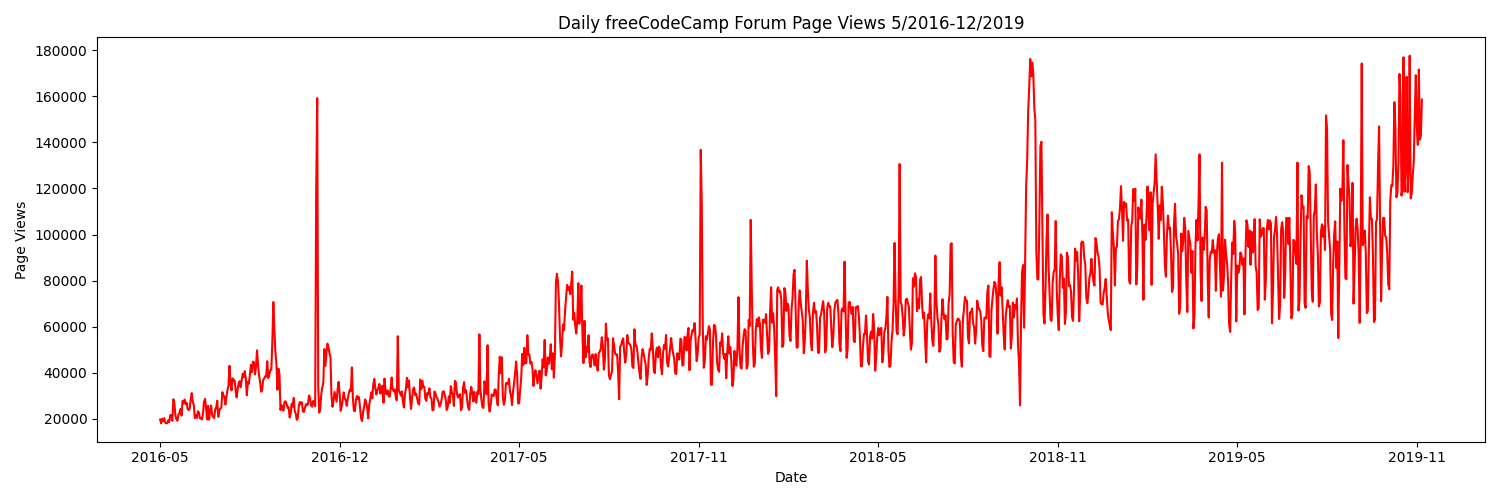
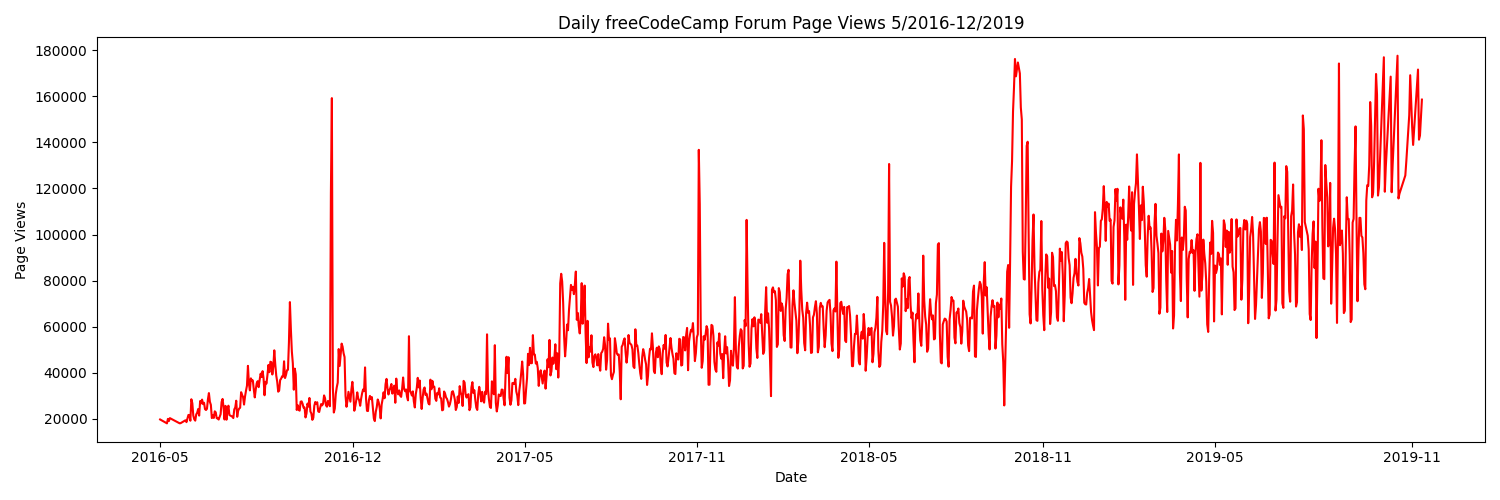
final commint - fig 2,3 complete

diff --git a/time_series_visualizer.py b/time_series_visualizer.py
@@ -5,7 +5,7 @@ from pandas.plotting import register_matplotlib_converters
 register_matplotlib_converters()
 
 # Import data (Make sure to parse dates. Consider setting index column to 'date'.)
-df = pd.read_csv("fcc-forum-pageviews.csv", index_col='date')
+df = pd.read_csv('fcc-forum-pageviews.csv', header=0, parse_dates=['date'], index_col='date')
 
 # Clean data
 df = df[(df['value'] >= df['value'].quantile(0.025)) & (df['value'] <= df['value'].quantile(0.975))]
@@ -28,13 +28,22 @@ def draw_line_plot():
 
 def draw_bar_plot():
     # Copy and modify data for monthly bar plot
-    df_bar = None
-
+    df_bar = df.copy()
+    df_bar['year'] = df.index.year
+    df_bar['month'] = df.index.month_name()
+    df_bar = df_bar .groupby(['year', 'month'])['value'].mean().reset_index()
+    df_bar = df_bar.pivot(index='year', columns='month', values='value')
+    df_bar = df_bar.reindex(
+    ['January', 'February', 'March', 'April', 'May', 'June', 
+     'July', 'August', 'September', 'October', 'November', 'December'], 
+    axis=1
+)
     # Draw bar plot
-
-
-
-
+    fig, ax = plt.subplots(figsize=(10, 8))
+    df_bar.plot(kind='bar', width=0.5, ax=ax)
+    ax.set_xlabel('Years')
+    ax.set_ylabel('Average Page Views')
+    ax.legend(title='Months') 
 
     # Save image and return fig (don't change this part)
     fig.savefig('bar_plot.png')
@@ -45,14 +54,27 @@ def draw_box_plot():
     df_box = df.copy()
     df_box.reset_index(inplace=True)
     df_box['year'] = [d.year for d in df_box.date]
-    df_box['month'] = [d.strftime('%b') for d in df_box.date]
+    df_box['month'] = df_box['date'].dt.strftime('%b')
+    
+    month_order = ['Jan', 'Feb', 'Mar', 'Apr', 'May', 'Jun', 'Jul', 'Aug', 'Sep', 'Oct', 'Nov', 'Dec']
+    df_box['month'] = pd.Categorical(df_box['month'], categories=month_order, ordered=True)
 
     # Draw box plots (using Seaborn)
-
-
-
-
-
+    fig, axes = plt.subplots(1, 2, figsize=(12, 4))
+    
+    sns.boxplot(data=df_box, hue='year',x='year', y='value', ax=axes[0],legend=False, palette="Set1", flierprops=dict(marker='D',markersize=1))
+    axes[0].grid(False)
+    axes[0].set_title('Year-wise Box Plot (Trend)')
+    axes[0].set_xlabel('Year')
+    axes[0].set_ylabel('Page Views')
+    
+    sns.boxplot(data=df_box, hue='month',x='month', y='value', ax=axes[1], legend=False, palette="Set1", flierprops=dict(marker='D',markersize=1))
+    axes[1].grid(False)
+    axes[1].set_title('Month-wise Box Plot (Seasonality)')
+    axes[1].set_xlabel('Month')
+    axes[1].set_ylabel('Page Views')
+    
     # Save image and return fig (don't change this part)
     fig.savefig('box_plot.png')
     return fig
+

diff --git a/test.py b/test.py
@@ -1,3 +1,5 @@
 import time_series_visualizer
 
 time_series_visualizer.draw_line_plot()
+time_series_visualizer.draw_bar_plot()
+time_series_visualizer.draw_box_plot()
